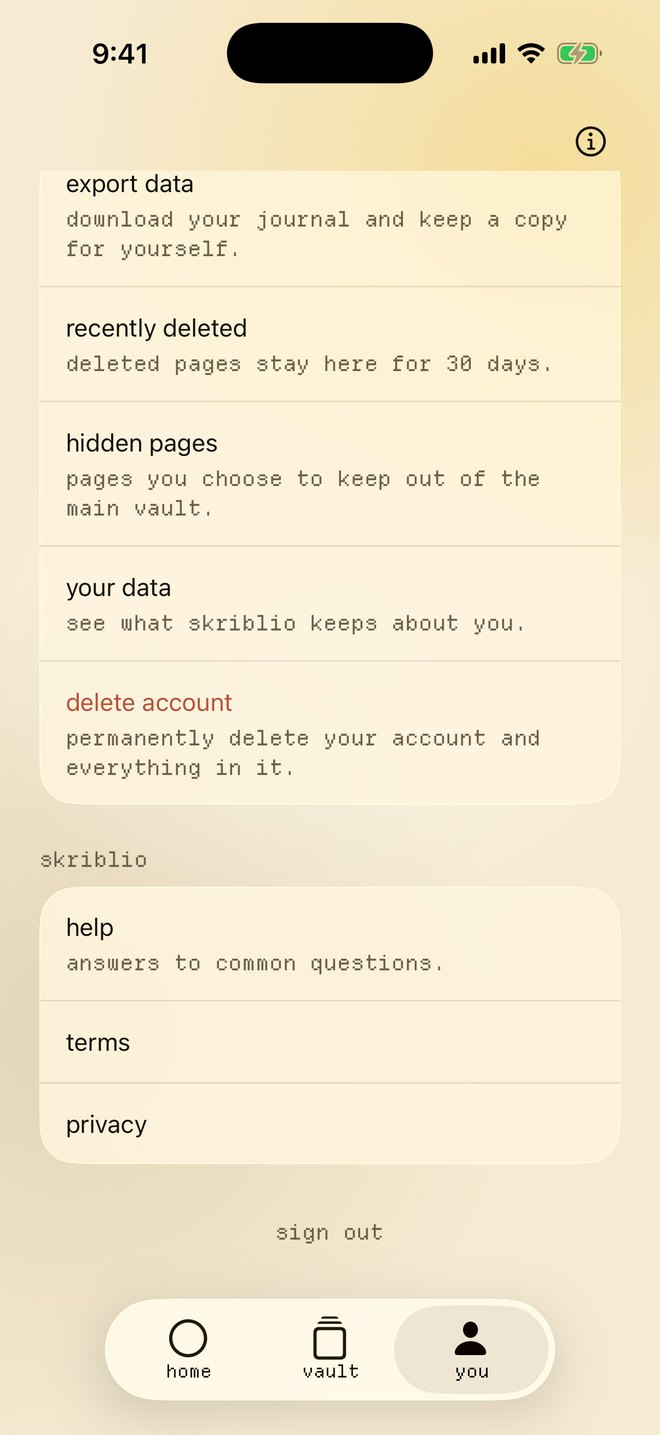
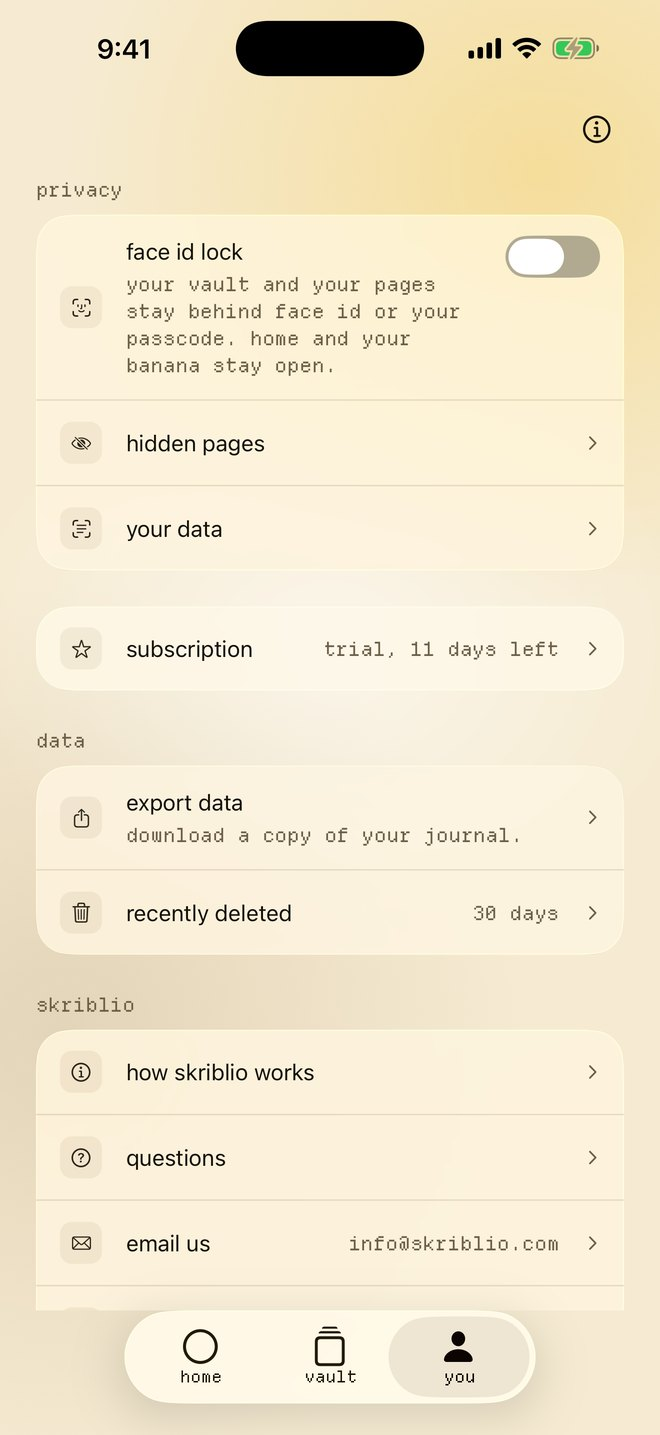
1.1.0 to the stores: the worlds and journal menu screenshots, the listing and notes, the site pictures
Jaco's word to submit to both stores. The 1.1.0 what's new and lock sentence go up from the listing, Play's notes say
fingerprint lock, the App Store script takes nine screenshots, and a trio layout puts the three worlds in one frame.
The site's rogue and privacy pictures are retaken; the invite page's store picker now lives in the generator.

diff --git a/index.html b/index.html
@@ -72,7 +72,7 @@
       <li><b>on your phone</b>tap 'journal' and type. every new page starts with a question, in case you're stuck.</li>
     </ul>
   </div>
-  <figure class="phone-shot"><img src="img/product/compose.jpg?v=bananas" alt="a new page with the question 'name five things you want to do in your life' at the top. under it are the 'scan', 'doodle' and 'voice' buttons and two typed lines." width="330" height="714" loading="lazy" decoding="async" /></figure>
+  <figure class="phone-shot"><img src="img/product/compose.jpg?v=110" alt="a new page with the question 'name five things you want to do in your life' at the top. under it are the 'scan', 'doodle' and 'voice' buttons and two typed lines." width="330" height="714" loading="lazy" decoding="async" /></figure>
 </section>
 
 <section class="paper-split" id="tree" aria-labelledby="tree-h">
@@ -81,7 +81,7 @@
     <h2 id="tree-h">the pages you love grow into a tree.</h2>
     <p class="lead">tap the heart on a page and it hangs on your memory tree. it starts as a small sapling and grows as you add more. it stays on the tree for as long as you have an account, so years from now you can climb back through the months.</p>
   </div>
-  <figure class="phone-shot"><img src="img/product/tree-full.jpg?v=bananas" alt="the memory tree a few weeks later, tall and covered in favourite pages that hang like handwritten cards with their dates. bunches of bananas grow in its branches." width="330" height="714" loading="lazy" decoding="async" /></figure>
+  <figure class="phone-shot"><img src="img/product/tree-full.jpg?v=110" alt="the memory tree a few weeks later, tall and covered in favourite pages that hang like handwritten cards with their dates. bunches of bananas grow in its branches." width="330" height="714" loading="lazy" decoding="async" /></figure>
 </section>
 
 <section class="paper-split flip" id="school" aria-labelledby="school-h">
@@ -89,7 +89,7 @@
     <h2 id="school-h">never stuck for what to journal about.</h2>
     <p class="lead">every new page starts with a question, and the dice swaps it for another one. journal school, in the 'you' tab, shows you the old ways people kept journals, from roman emperors to da vinci's notebooks. you can try each one on a page.</p>
   </div>
-  <figure class="phone-shot"><img src="img/product/school.jpg?v=bananas" alt="journal school, with the 'formats', 'reads' and 'make it yours' tabs and a note that some formats are made for paper. below are drawings of cross writing, mirror writing, the pillow book and morning pages." width="330" height="714" loading="lazy" decoding="async" /></figure>
+  <figure class="phone-shot"><img src="img/product/school.jpg?v=110" alt="journal school, with the 'formats', 'reads' and 'make it yours' tabs and a note that some formats are made for paper. below are drawings of cross writing, mirror writing, the pillow book and morning pages." width="330" height="714" loading="lazy" decoding="async" /></figure>
 </section>
 
 <section class="scene" id="rogue" aria-labelledby="rogue-h">
@@ -151,7 +151,7 @@
     <p class="lead">the iphone widgets sit on a mac's desktop too. that works on macos sonoma or later, when the iphone is near the mac and signed in to the same apple account.</p>
     <p class="fine">both come with your plan. open <a href="desktop/">skriblio.com/desktop</a> on your computer to get the desktop companion.</p>
   </div>
-  <figure class="phone-shot"><img src="img/product/widget.jpg?v=bananas" alt="the skriblio widget at the top of an iphone home screen, with coat, its line for the day and the week's days as dots" width="330" height="301" loading="lazy" decoding="async" /></figure>
+  <figure class="phone-shot"><img src="img/product/widget.jpg?v=110" alt="the skriblio widget at the top of an iphone home screen, with coat, its line for the day and the week's days as dots" width="330" height="301" loading="lazy" decoding="async" /></figure>
 </section>
 
 <section class="yours paper-split" id="yours" aria-labelledby="yours-h">
@@ -164,7 +164,7 @@
       <li><b>delete it</b>tap 'delete account' in the 'you' tab, and everything is deleted straight away.</li>
     </ul>
   </div>
-  <figure class="phone-shot"><img src="img/product/privacy.jpg?v=bananas" alt="the 'you' tab, with 'export data', 'recently deleted', 'hidden pages', 'your data' and 'delete account'" width="330" height="717" loading="lazy" decoding="async" /></figure>
+  <figure class="phone-shot"><img src="img/product/privacy.jpg?v=110" alt="this is the 'you' tab. the 'face id lock' keeps your vault and your pages behind face id or your passcode, and home stays open. below it are 'hidden pages', 'your data', 'export data' and 'recently deleted'." width="330" height="717" loading="lazy" decoding="async" /></figure>
 </section>
 
 <section class="plans" aria-labelledby="price-h">

diff --git a/rogue/index.html b/rogue/index.html
@@ -58,7 +58,7 @@
     <div class="badges"><a class="badge" href="../download/">download</a></div>
     <p class="fine">pick a plan and the first two weeks are free. after that it's $49.99 a year or $9.99 a month, and both plans include the desktop companion. skriblio is for adults, 18 and over.</p>
   </div>
-  <figure class="phone-shot"><img src="../img/product/rogue.jpg?v=bananas" alt="the skriblio home screen after a while without journaling, with ned standing on his head. his line says 'all the blood's rushing to my head'. under it the last of five dots is filled, with 'ned has gone bananas, and one page calms it down'. the button says 'journal and calm it down'." width="330" height="714" fetchpriority="high" /></figure>
+  <figure class="phone-shot"><img src="../img/product/rogue.jpg?v=110" alt="the skriblio home screen after a while without journaling, with ned standing on his head and the 'journal' button cracked under him. the line says 'whenever you feel like it, tap 'journal' and start with one line.'" width="330" height="714" fetchpriority="high" /></figure>
 </section>
 <section aria-labelledby="facts-h">
   <h2 id="facts-h">what you get</h2>

diff --git a/paper/index.html b/paper/index.html
@@ -58,7 +58,7 @@
     <div class="badges"><a class="badge" href="../download/">download</a></div>
     <p class="fine">pick a plan and the first two weeks are free. after that it's $49.99 a year or $9.99 a month, and both plans include the desktop companion. skriblio is for adults, 18 and over.</p>
   </div>
-  <figure class="phone-shot"><img src="../img/product/paperpage.jpg?v=bananas" alt="a skriblio page from wed 2 sep, with a photographed handwritten notebook page kept on it about a walk to the bakery before work" width="330" height="407" fetchpriority="high" /></figure>
+  <figure class="phone-shot"><img src="../img/product/paperpage.jpg?v=110" alt="a skriblio page from wed 2 sep, with a photographed handwritten notebook page kept on it about a walk to the bakery before work" width="330" height="407" fetchpriority="high" /></figure>
 </section>
 <section aria-labelledby="facts-h">
   <h2 id="facts-h">what you get</h2>

diff --git a/clarity/index.html b/clarity/index.html
@@ -58,7 +58,7 @@
     <div class="badges"><a class="badge" href="../download/">download</a></div>
     <p class="fine">pick a plan and the first two weeks are free. after that it's $49.99 a year or $9.99 a month, and both plans include the desktop companion. skriblio is for adults, 18 and over.</p>
   </div>
-  <figure class="phone-shot"><img src="../img/product/vault.jpg?v=bananas" alt="the vault, with the memory tree at the top full of favourite pages, then 'on this day' and this week's pages with their hearts" width="330" height="714" fetchpriority="high" /></figure>
+  <figure class="phone-shot"><img src="../img/product/vault.jpg?v=110" alt="the vault, with the memory tree at the top full of favourite pages, then 'on this day' and this week's pages with their hearts" width="330" height="714" fetchpriority="high" /></figure>
 </section>
 <section aria-labelledby="facts-h">
   <h2 id="facts-h">what you get</h2>
